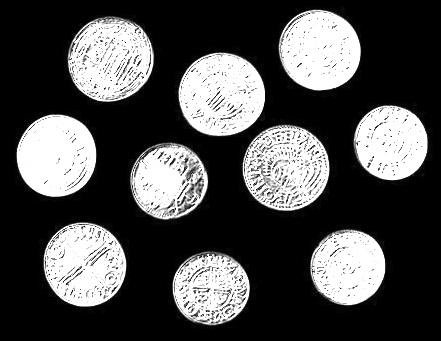
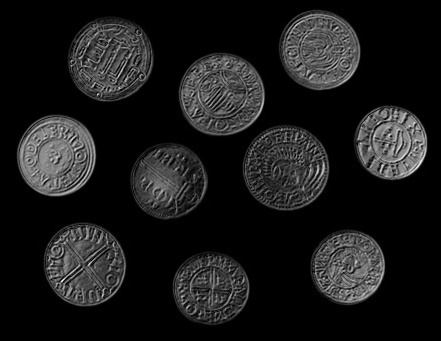
sobel works after normalising

diff --git a/Lab4/convolution.cpp b/Lab4/convolution.cpp
@@ -3,7 +3,9 @@
 #include <opencv/cv.h>        //you may need to
 #include <opencv/highgui.h>   //adjust import locations
 #include <opencv/cxcore.h>    //depending on your machine setup
+#include <math.h>
 
+#define PI 3.14159265
 
 using namespace cv;
 
@@ -37,11 +39,6 @@ int main( int argc, char** argv )
   // CONVERT COLOUR, BLUR AND SAVE
   Mat gray_image;
   cvtColor( image, gray_image, CV_BGR2GRAY );
-
-  Mat coinBlurred;
-  GaussianBlur(gray_image, 10, coinBlurred);
-
-  imwrite( "blur.jpg", coinBlurred );
 
   Mat image_dx(gray_image.size(), CV_32FC1);
   Mat image_dy(gray_image.size(), CV_32FC1);
@@ -110,9 +107,13 @@ void sobel(cv::Mat &input, cv::Mat &output_dx, cv::Mat &output_dy, cv::Mat &outp
 	  output_dx.at<float>(i, j) = sum_x;
  	  output_dy.at<float>(i, j) = sum_y;
 	  output_mag.at<float>(i, j) = sqrt(pow(sum_x, 2) + pow(sum_y, 2));
-	  output_dir.at<float>(i, j) = atan((sum_x)/(sum_y));
+	  output_dir.at<float>(i, j) = atan((sum_x)/(sum_y)) * 180/PI;
       }
     }
+    cv::normalize(output_dx, output_dx, 0, 255, cv::NORM_MINMAX);
+    cv::normalize(output_dy, output_dy, 0, 255, cv::NORM_MINMAX);
+    cv::normalize(output_mag, output_mag, 0, 255, cv::NORM_MINMAX);
+    cv::normalize(output_dir, output_dir, 0, 255, cv::NORM_MINMAX);
   imwrite( "dx.jpg", output_dx );
   imwrite( "dy.jpg", output_dy );
   imwrite( "mag.jpg", output_mag );

diff --git a/Lab2/mandrill1Convert.cpp b/Lab2/mandrill1Convert.cpp
@@ -20,29 +20,13 @@ int main() {
   // Read image from file
   Mat image = imread("mandrill1.jpg", 1);
   Mat image2 = imread("mandrill1.jpg", 1);
-//   Mat redImg;
-//   // Threshold by looping through all pixels
-//   for(int y=0; y<image.rows; y++) {
-//    for(int x=0; x<image.cols; x++) {
-//      image.at<Vec3b>(y,x)[0]=0;
-//      image.at<Vec3b>(y,x)[1]=0;       
-//        } 
-//     }
-//     redImg = image;
-      for(int y=0; y<image.rows; y++) {
+
+  for(int y=0; y<image.rows; y++) {
    for(int x=0; x<image.cols; x++) {
-    //  image.at<Vec3b>(y,x)[2]=redImg.at<Vec3b>(y,x)[2];
      image2.at<Vec3b>((y+30)%image.cols, (x+30)%image.rows)[2]=image.at<Vec3b>(y,x)[2];       
-       } 
-
-    }
+   } 
+  }
     imwrite("mandrill1convert.jpg",image2);
-
-
-
-
-
-  //Save thresholded imagemage
 
   return 0;
 }

diff --git a/Lab2/task2convolution.cpp b/Lab2/task2convolution.cpp
@@ -20,14 +20,14 @@ int main()
         }
     }
 
-    // 5x5
-    for(int i=0; i<5; i++)
-    {
-        for(int j=0; j<5; j++)
-        {
-            kernel.at<uchar>(i, j) = 1;
-        }
-    }
+    // // 5x5
+    // for(int i=0; i<5; i++)
+    // {
+    //     for(int j=0; j<5; j++)
+    //     {
+    //         kernel.at<uchar>(i, j) = 1;
+    //     }
+    // }
 
     // Convoluting the Image
     for(int i=1; i<image.rows - 1; i++)
